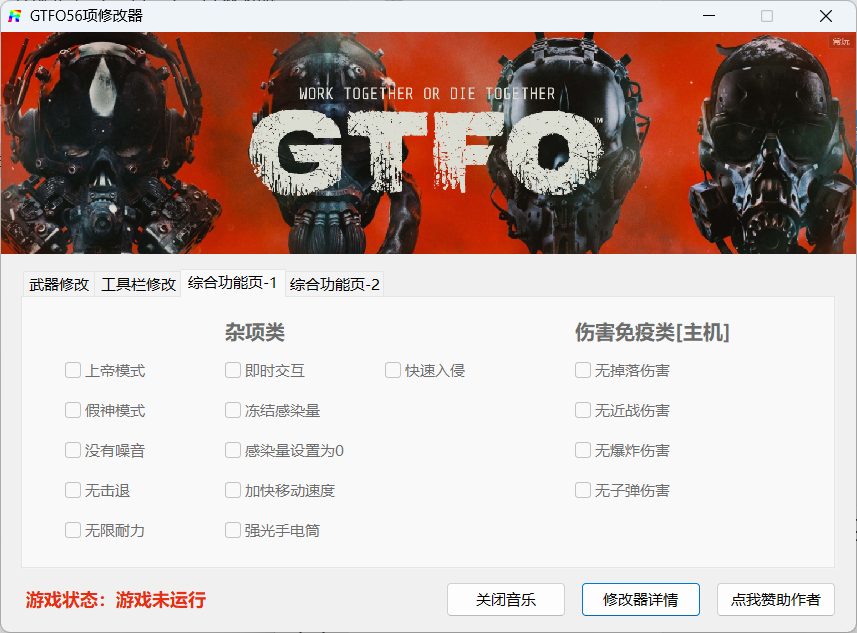
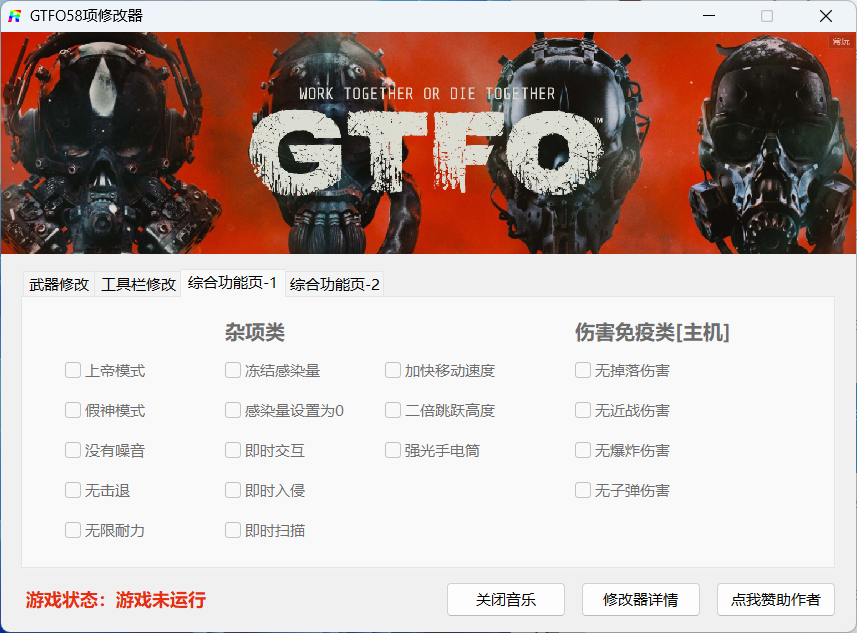
up

diff --git a/docs/GameTrainer/Trainer/GTFO.md b/docs/GameTrainer/Trainer/GTFO.md
@@ -10,7 +10,7 @@
 
 **修改器简介：**
 
-本修改器由文仔大大制作，共56项功能，游戏启动即可使用。
+本修改器由文仔大大制作，共58项功能，游戏启动即可使用。
 
 **注意事项：**
 
